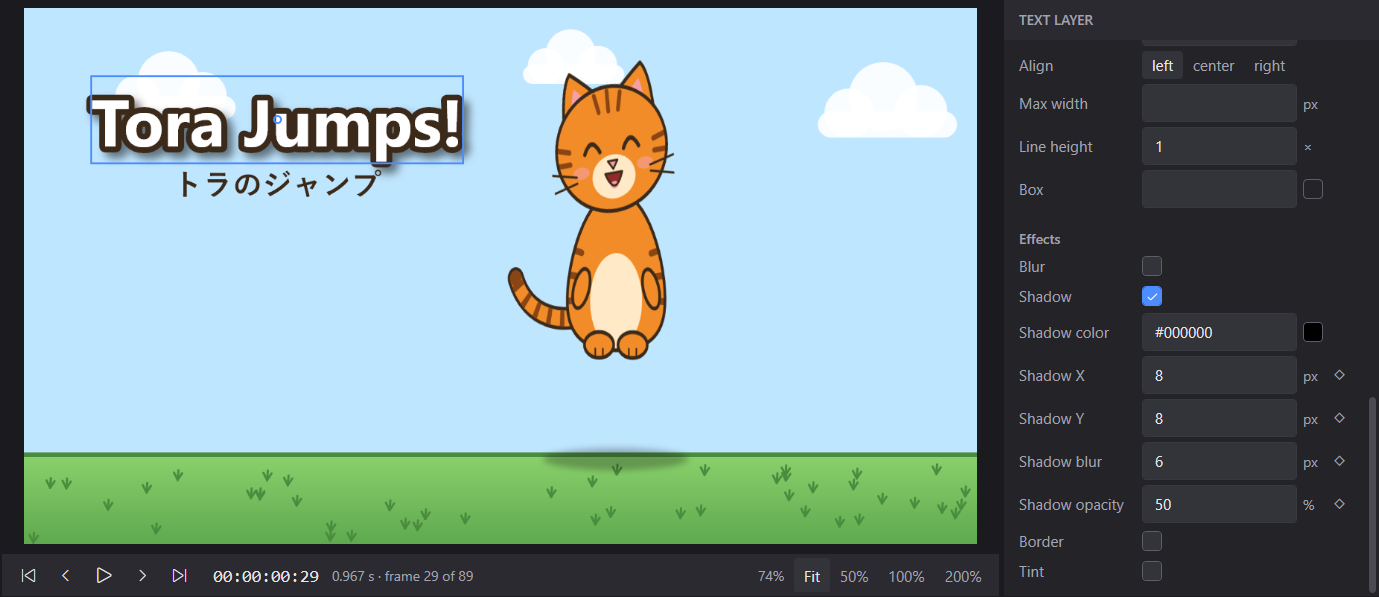
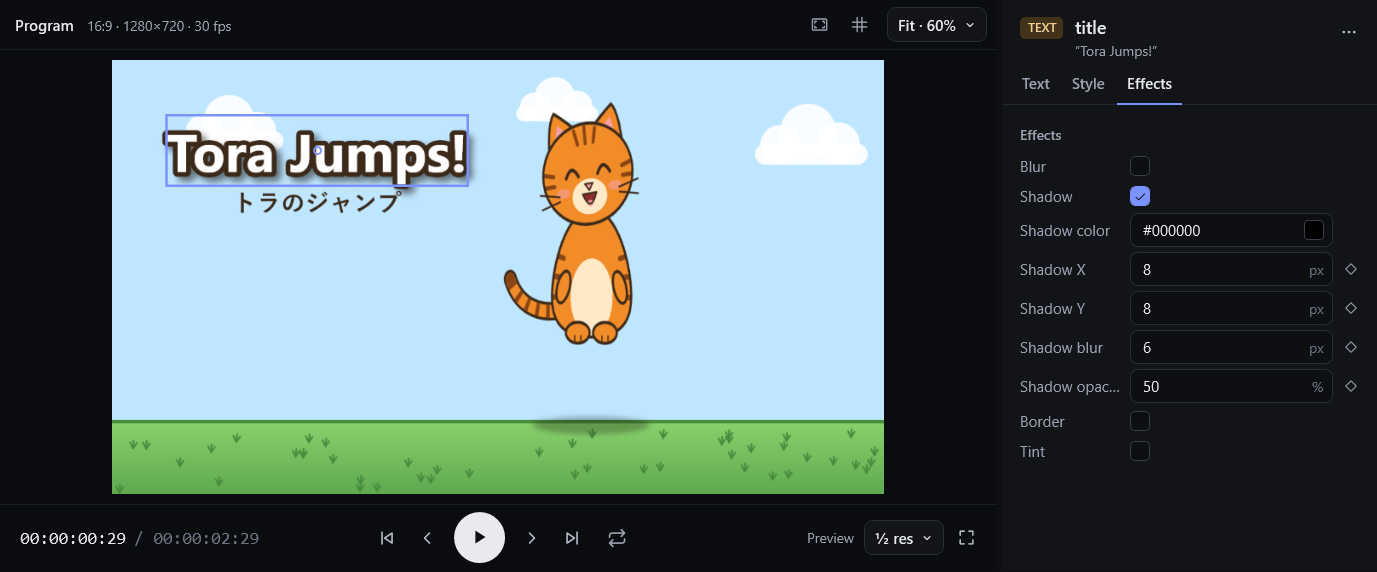
Retake the editor guide's screenshots in the new look
The four pictures in docs/editor.md show the redesigned editor: Tora
Jumps with its rig selected, comic-panels' timeline with three caption
lanes and the sound effects' waveforms, the title's shadow on the
Effects tab, and the Export view rendering the Japanese version. Their
descriptions say what each now shows. The guide no longer says speed
changes are left to the model, since the inspector sets a video's
speed.

The changelog's editor entry, which grew phase by phase into one
paragraph, is grouped by part of the editor (Home, media, preview,
timeline, inspector, Export, Activity, saving, errors) with nothing
left out. The redesign plan marks all its phases done.

Claude-Session: https://claude.ai/code/session_01LmZCXo4TcHp7NagNeceWKh

diff --git a/CHANGELOG.md b/CHANGELOG.md
@@ -10,68 +10,73 @@ when they open.
 
 ### Added
 
-- **The ZeyoCut editor:** `ZeyoCut.Editor.exe`, a window for working on a project by hand,
-  in the release zip and the bundle. It opens a project (from Home, which shows the recent projects and
-  the projects folder as cards with a picture of each, its length, its languages and Claude's latest
-  edit, with a search box and a list view; Open folder; or a folder on the command line), lists its media,
-  imports images, audio, fonts and video (from the file picker or dropped on the window, normalizing
-  video as `import_video` does, with progress) and shows the frame at any time, drawn by the same
-  renderer as exports, with frame stepping, fit and zoom. It plays the edit at 0.5×, 1× or 2× with
-  the sound mixed as exported, drawing frames at half size while playing. Its timeline shows a lane
-  for each draw level, caption track and sound role; clips move, trim, split, delete, hide and
-  change lanes by dragging, keys and a right-click menu, with snapping to clip edges, the playhead
-  and markers. Each change is saved at once as an undoable step, without holding up the window: while
-  another program is saving, the status bar says "Saving…" until the change is saved after it. When
-  another program saves the project, the editor shows the new version and says what changed. A
-  change begun before that (text
-  typed into a field, a drag) isn't saved over a layer the other program changed meanwhile: the
-  status bar says so, and what was typed stays in the field. Media goes onto the timeline by
-  dragging it onto a lane or at the playhead, and Pack lanes puts layers that never show together on
-  shared levels without changing a frame. The inspector edits the selected clip: start, end, length,
-  draw level, shown or muted, a video's sound, role, volume and fades, and a text's or caption's
-  text and style (font, font file, size, bold, color, outline, alignment, width, line height, box);
-  a caption's style applies to its whole track. Transform fields place a video, picture or text: X,
-  Y, scale, rotation and opacity, each its static value or, when animated, a keyframe at the
-  playhead; a caption's position moves its whole track. A diamond beside each animatable number adds
-  a keyframe at the playhead or takes away the one there, and the selected clip shows its keyframes
-  on the timeline, where a click or Alt+←/→ goes to one. Effects (blur, shadow, border, tint) switch
-  on and off and take their settings, animatable too; a video's or picture's brightness, contrast
-  and saturation are set in percent; and a clip a face blur follows shows the redaction's style,
-  strength, padding, feather, hold frames and fill. A video's crop is set by its sides, keeping
-  what's left of the picture in place. A click in the preview selects the layer drawn on top there,
-  a child layer too, and dragging moves it, redrawn as it goes and saved on release; Shift keeps it
-  on one axis and Escape puts it back. A paused frame is drawn again when a file it shows changes
-  without a save, such as a matte the server finishes. The Export view renders the project as
-  `start_export` does, with preset cards, language versions, a quality (crf 18, 23 or 28), .srt
-  files of the caption tracks as `export_srt` writes them, a summary card with a picture of the
-  project, progress and stop, Claude's running exports of the project read from the jobs folder,
-  and the exports folder's files with Play and Show in folder. The project's Duration is set in the inspector, and the lanes are
-  shaded past the end, as the ruler is. Its header names the project, whether it's saved and when
-  Claude last saved, with undo, redo and the way to Export; the Activity view lists the saves the
-  backups folder keeps, yours and Claude's, as steps under their days (saves in a row by one side,
-  under 5 minutes apart), with a filter by who saved and Restore, which puts a step back as a new
-  revision the way `restore_backup` does. The preview names the canvas, can draw the
-  safe area (as `check_project` checks it) and a thirds grid over the frame, loops, and shows the
-  frame full screen (F). The inspector's header says where the clip comes from and what goes with
-  it, with the timeline's menu under ⋯; its fields are on tabs by kind, with timing, position and
-  scale on one row each, one diamond keying both of a row's values, an opacity slider, chips for
-  the attached layers, and a video's speed (as `set_speed` sets it, without moving the clips after
-  it). The media panel shows tiles with thumbnails and sound waveforms (kept in the project's
-  `cache\thumbnails` and `cache\waveforms`) and
-  chips for each kind. The timeline names its lanes for what they hold, numbered from the bottom,
-  with an eye on each that hides every clip in it (mutes, on a sound lane) as one step; draws clips
-  rounded in their kind's color with a thumbnail, or a sound's waveform from where it's trimmed, and
-  hidden or muted ones faded and dashed; has a
-  Blade (B) that splits a clip where it's clicked, Add marker (M) for a chapter marker at the
-  playhead, as `add_markers` adds one, and a zoom slider. A project is open in one editor window at a time. Held at the
-  timeline's edge, a drag or a scrub scrolls it, and clicking into an animated value or its diamond
-  while playing stops the playback first. A
-  change that can't be saved (another program holds `project.json`, or its folder is read-only or
-  gone) isn't made, and the status bar gives the reason. An error the editor didn't expect is shown
-  in plain words, with its details in `editor-errors.log` in the log folder. A `project.json` with
-  problems, such as an asset whose file is outside `assets\`, opens with the problems named in the
-  status bar. The editor keeps its own settings in `%LOCALAPPDATA%\ZeyoCut\editor.json`
-  (`ZEYOCUT_EDITOR_SETTINGS` names another file). The editor guide (`docs/editor.md`) shows it with screenshots.
+- **The ZeyoCut editor:** `ZeyoCut.Editor.exe`, a window for working on a project by hand, in the
+  release zip and the bundle. The editor guide (`docs/editor.md`) shows it with screenshots.
+  - **Home** shows the recent projects and the projects folder as cards with a picture of each, its
+    length, its languages and Claude's latest edit, with a search box and a list view; Open folder,
+    or a folder on the command line, opens any project. A project is open in one editor window at a
+    time. The header names the project, whether it's saved and when Claude last saved, with undo,
+    redo, the Edit and Activity views and the way to Export.
+  - **Media:** tiles with thumbnails and sound waveforms (kept in the project's `cache\thumbnails`
+    and `cache\waveforms`) and chips for each kind. It imports images, audio, fonts and video (from
+    the file picker or dropped on the window, normalizing video as `import_video` does, with
+    progress), and media goes onto the timeline by dragging it onto a lane or at the playhead.
+  - **Preview and playback:** the frame at any time, drawn by the same renderer as exports, with
+    frame stepping, fit and zoom; the preview names the canvas, can draw the safe area (as
+    `check_project` checks it) and a thirds grid over the frame, and shows the frame full screen
+    (F). It plays the edit at 0.5×, 1× or 2× with the sound mixed as exported, drawing frames at half
+    size while playing, and loops. A click selects the layer drawn on top there, a child layer too,
+    and dragging moves it, redrawn as it goes and saved on release; Shift keeps it on one axis and
+    Escape puts it back. A paused frame is drawn again when a file it shows changes without a save,
+    such as a matte the server finishes.
+  - **Timeline:** a lane for each draw level, caption track and sound role, named for what it holds
+    and numbered from the bottom, with an eye on each that hides every clip in it (mutes, on a sound
+    lane) as one step. Clips are drawn rounded in their kind's color with a thumbnail, or a sound's
+    waveform from where it's trimmed, and hidden or muted ones faded and dashed. They move, trim,
+    split, delete, hide and change lanes by dragging, keys and a right-click menu, with snapping to
+    clip edges, the playhead and markers; held at the timeline's edge, a drag or a scrub scrolls it.
+    The Blade (B) splits a clip where it's clicked, Add marker (M) puts a chapter marker at the
+    playhead as `add_markers` does, and a slider zooms. Pack lanes puts layers that never show
+    together on shared levels without changing a frame. The lanes are shaded past the project's end,
+    as the ruler is.
+  - **Inspector:** edits the selected clip. Its header says where the clip comes from and what goes
+    with it, with the timeline's menu under ⋯, and its fields are on tabs by kind: start, end and
+    length on one row, draw level, shown or muted, and chips for the attached layers; a video's
+    sound and speed (as `set_speed` sets it, without moving the clips after it); a sound's role,
+    volume and fades; and a text's or caption's text and style (font, font file, size, bold, color,
+    outline, alignment, width, line height, box), a caption's style applying to its whole track.
+    Transform fields place a video, picture or text: X and Y, scale, rotation and opacity (with a
+    slider), each its static value or, when animated, a keyframe at the playhead; a caption's
+    position moves its whole track. A diamond beside each animatable number (one for both of a
+    row's values) adds a keyframe at the playhead or takes away the one there, and the selected clip
+    shows its keyframes on the timeline, where a click or Alt+←/→ goes to one; clicking into an
+    animated value or its diamond while playing stops the playback first. Effects (blur, shadow,
+    border, tint) switch on and off and take their settings, animatable too; a video's or picture's
+    brightness, contrast and saturation are set in percent; a clip a face blur follows shows the
+    redaction's style, strength, padding, feather, hold frames and fill; and a video's crop is set
+    by its sides, keeping what's left of the picture in place. With nothing selected, it sets the
+    project's Duration.
+  - **Export view:** renders the project as `start_export` does, with preset cards, language
+    versions, a quality (crf 18, 23 or 28), .srt files of the caption tracks as `export_srt` writes
+    them, a summary card with a picture of the project, progress and stop, Claude's running exports
+    of the project read from the jobs folder, and the exports folder's files with Play and Show in
+    folder.
+  - **Activity view:** the saves the backups folder keeps, yours and Claude's, as steps under their
+    days (saves in a row by one side, under 5 minutes apart), with a filter by who saved and
+    Restore, which puts a step back as a new revision the way `restore_backup` does.
+  - **Saving alongside another program:** each change is saved at once as an undoable step, without
+    holding up the window: while another program is saving, the status bar says "Saving…" until the
+    change is saved after it. When another program saves the project, the editor shows the new
+    version and says what changed. A change begun before that (text typed into a field, a drag)
+    isn't saved over a layer the other program changed meanwhile: the status bar says so, and what
+    was typed stays in the field. A change that can't be saved (another program holds
+    `project.json`, or its folder is read-only or gone) isn't made, and the status bar gives the
+    reason.
+  - **Errors and settings:** an error the editor didn't expect is shown in plain words, with its
+    details in `editor-errors.log` in the log folder. A `project.json` with problems, such as an
+    asset whose file is outside `assets\`, opens with the problems named in the status bar. The
+    editor keeps its own settings in `%LOCALAPPDATA%\ZeyoCut\editor.json`
+    (`ZEYOCUT_EDITOR_SETTINGS` names another file).
 - **`open_in_editor`:** opens a project (by default the open one) in the editor on the user's
   computer, so they can fine-tune it while Claude keeps working; a project already open in the editor
   comes to the front. The editor is `ZeyoCut.Editor.exe` next to the server, or the one the new

diff --git a/docs/editor.md b/docs/editor.md
@@ -2,9 +2,9 @@
 
 `ZeyoCut.Editor.exe` opens a ZeyoCut project in a window, for fine-tuning by hand what the model made. It edits the same `project.json` as the server, at the same time: each change you make is saved at once and the model's next reply notes it, and what the model changes shows in the window within a second.
 
-![The editor with the Tora Jumps example open: the media on the left, the frame at 0.967 seconds in the middle, the inspector on the right with Tora's Y keyed at the playhead, and the timeline below with the keyframes on Tora's clip](editor-edit.png)
+![The editor with the Tora Jumps example open: the media on the left, the frame at 0.967 seconds in the middle, the inspector on the right with Tora's position and rotation animated, and the timeline below with the keyframes on Tora's clip](editor-edit.png)
 
-It imports media, plays the edit with its sound, moves, trims and splits clips on a timeline, places, crops and animates layers with keyframes, sets effects, color adjustments and face-blur settings, edits captions, changes volumes, and exports. Masks, motion paths, transitions and speed changes stay with the model: ask it for those.
+It imports media, plays the edit with its sound, moves, trims and splits clips on a timeline, places, crops and animates layers with keyframes, sets effects, color adjustments and face-blur settings, edits captions, changes volumes and a video's speed, and exports. Masks, motion paths and transitions stay with the model: ask it for those.
 
 ## Open a project
 
@@ -50,7 +50,7 @@ Under the frame are the playhead's timecode and the last frame's. ← and → st
 
 ## The timeline
 
-![The comic-panels example's timeline: caption tracks in Burmese, Japanese and English, the three panels overlapping where they cross-fade, and two sound effects in the Effects lane](editor-timeline.png)
+![The comic-panels example's timeline: caption tracks in Burmese, Japanese and English, the three panels overlapping where they cross-fade, and two sound effects with their waveforms in the Sound effects lane](editor-timeline.png)
 
 There's a lane for each draw level (`zIndex`) of video, images and text, the highest on top; a lane for each caption track ("Captions · EN"); and Voice, Music and Sound effects lanes for sound. A draw level is named for what it holds (Video, Images, Text, or Mixed), and levels of the same name are numbered from the bottom: Video 2 draws over Video 1. The lane's tooltip gives its draw level. A layer with child layers (a logo attached to a clip, a rig) is one clip with a "+N" badge, and its children move, trim, split and delete with it.
 
@@ -96,7 +96,7 @@ Its header names the clip with a badge for its kind, and says where it comes fro
 - **Color:** a video's or picture's Brightness, Contrast and Saturation, in percent: 0, 100 and 100 leave it as it is.
 - **Face blur:** a video whose footage a redaction hides (`apply_redaction`) shows its settings: Style, Strength (pixelate and blur) or Fill color (solid), Padding, Feather and Hold frames, a section for each redaction. They are the redaction's, so they change every clip of that footage.
 
-![The title of Tora Jumps with a shadow switched on: the inspector shows the shadow's color, offset, blur and opacity, each number with a keyframe diamond](editor-effects.png)
+![The title of Tora Jumps with a shadow switched on: the inspector's Effects tab shows the shadow's color, offset, blur and opacity, each number with a keyframe diamond](editor-effects.png)
 
 ### Typing values
 
@@ -121,7 +121,7 @@ To blur seconds 2 to 4, say:
 
 ## Export
 
-![The Export view exporting the Japanese version of comic-panels, at 56%, with an earlier export listed in the exports folder](editor-export.png)
+![The Export view exporting the Japanese version of comic-panels at 1920×1080, at 24%, with the earlier exports listed in the exports folder](editor-export.png)
 
 Export in the header (Ctrl+3) opens the Export view, and Back to edit returns to the timeline. It renders the project as it's saved to an MP4 in its `exports` folder, as the model's `start_export` does, in the editor's own process. Edits made while it runs aren't in it.
 
@@ -174,6 +174,6 @@ The editor reads `FfmpegPath`, `ProjectsRoot`, `LibraryPath` and `VideoEncoder` 
 
 ## What it leaves to the model
 
-- Masks, motion paths, transitions and speed changes.
+- Masks, motion paths and transitions.
 - Closing a gap: deleting a clip leaves one. The model's `remove_range` cuts a stretch of time out of every layer.
 - One clip is selected at a time.

diff --git a/docs/manual-editor/REDESIGN.md b/docs/manual-editor/REDESIGN.md
@@ -1,7 +1,7 @@
 # Editor redesign: plan for the existing screens
 
 - Written 2026-11-17 on `feature/manual-editor` at `2c5a72d`.
-- Status: R1–R8 decided as recommended (2026-11-17). Phases A–G done; H waits for a go.
+- Status: R1–R8 decided as recommended (2026-11-17). Phases A–H done.
 - Compares the design canvas "ZeyoCut Editor — modern redesign" (19 artboards) with screenshots of the editor as it is now (`screenshots/01`–`09`, taken 2026-11-17 from the installed Release editor).
 - Covers the four screens the editor already has. The 15 new screens are left for later (see Scope).
 - The rules in PLAN.md still hold: no control without real project data and real render output behind it; the UI has no editing logic of its own; a new project property is saved, rendered on export and reachable over MCP; tests pass at every commit; stop and report after each phase.
@@ -189,7 +189,7 @@ Each phase: tests first where behavior changes, full suite green before each com
 | E · Export (done) | Two-column layout, preset cards, Quality, summary card, Play and Show in folder, Claude's running exports; Core: SRT writer moved out of `export_srt`, then the .srt option | `export_srt` output unchanged after the move; the .srt option writes the same file; Quality reaches the encoder as `crf` |
 | F · Activity (done) | Filter, date headings, grouping, Restore, side card | Grouping rule; Restore saves a new revision, and Claude's next tool call sees it in its reply note |
 | G · Waveforms (done) | Audio peaks per asset, made in the background and cached in the project's cache folder; drawn on media tiles and audio clips | Peaks match a known test tone; a missing or changed file rebuilds them |
-| H · Docs | docs/editor.md and its screenshots retaken, CHANGELOG | Docs build |
+| H · Docs (done) | docs/editor.md and its screenshots retaken, CHANGELOG | Docs build |
 
 ## Seen in the screenshots, not in the design
 

diff --git a/README.md b/README.md
@@ -54,7 +54,7 @@ Then ask for something. ZeyoCut imports files from your Desktop, Documents, Down
 
 `ZeyoCut.Editor.exe`, next to `ZeyoCut.Mcp.exe` in the release zip, opens the same projects in a window, for working on them by hand. It imports media, plays the edit with its sound, edits clips on a timeline and in an inspector, places them in the picture, sets their effects and keyframes, and exports. Masks, motion paths and transitions are still the model's; ask it for those. The [editor guide](docs/editor.md) shows it with screenshots.
 
-![The editor with the Tora Jumps example open: the media on the left, the frame in the middle, the inspector on the right with Tora's Y keyed at the playhead, and the timeline below with the keyframes on Tora's clip](docs/editor-edit.png)
+![The editor with the Tora Jumps example open: the media on the left, the frame in the middle, the inspector on the right with Tora's position and rotation animated, and the timeline below with the keyframes on Tora's clip](docs/editor-edit.png)
 
 - **Open a project** from Home, which shows your recent projects and the rest of your projects folder as cards with a picture of each and a search box, with Open folder… (Ctrl+O), from the command line (`ZeyoCut.Editor.exe C:\Users\you\ZeyoCut\projects\my-video`), or by asking the model to open it in the editor (`open_in_editor`). A project is open in one window at a time: opening it again brings that window to the front.
 - **Three views:** Edit and Activity, switched in the header, and Export, opened by the header's Export button (or Ctrl+1, Ctrl+2 and Ctrl+3: Activity, Edit and Export). The header names the project, shows whether it's saved, undoes and redoes, and says when Claude last saved; the logo goes back to the projects.
